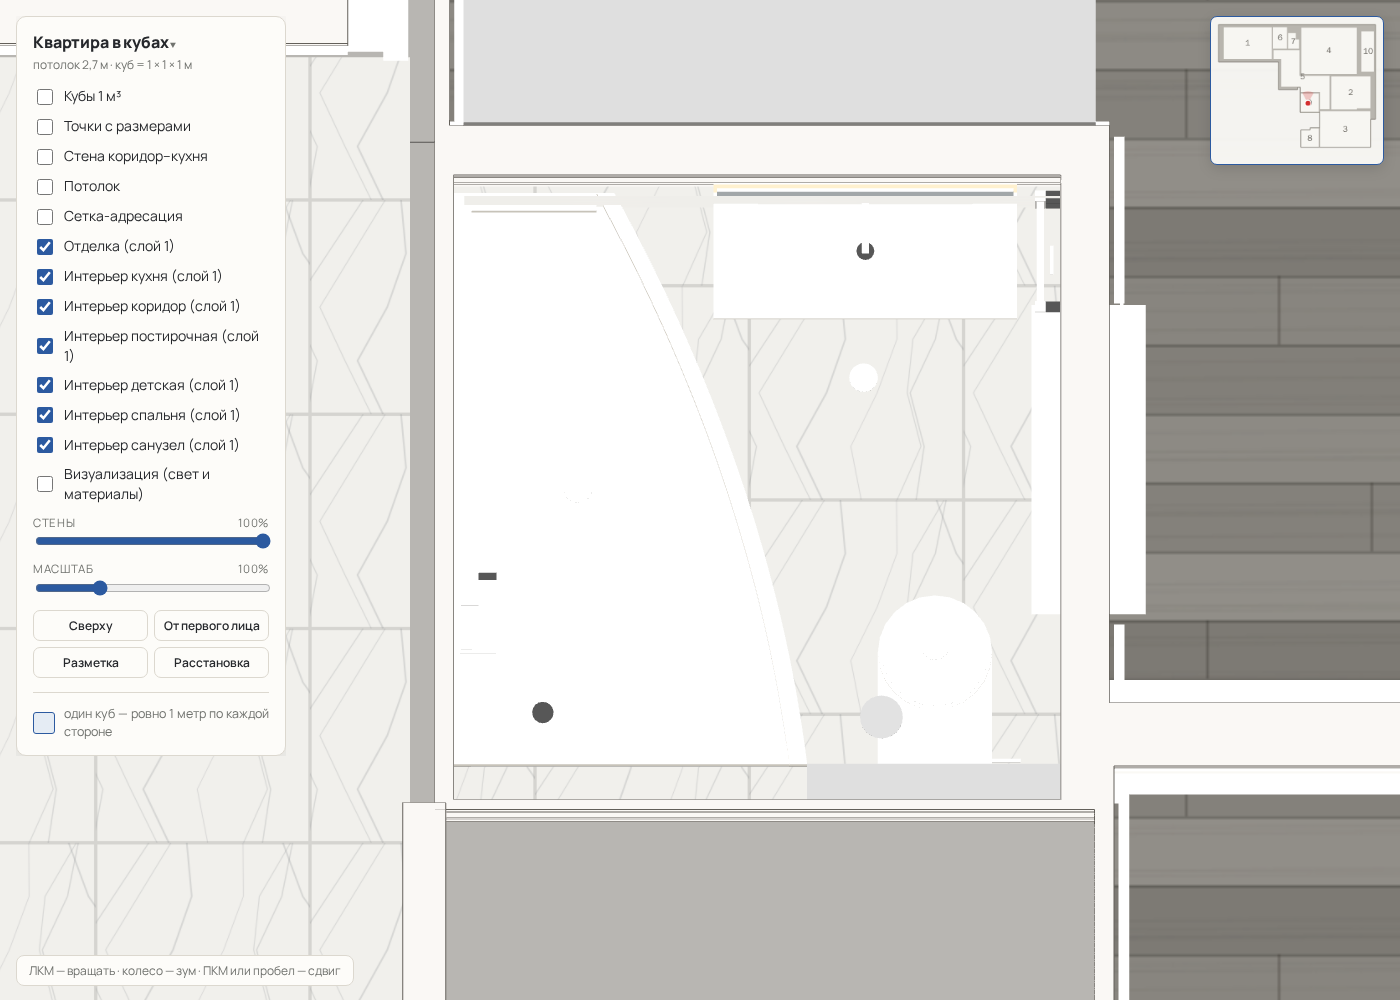
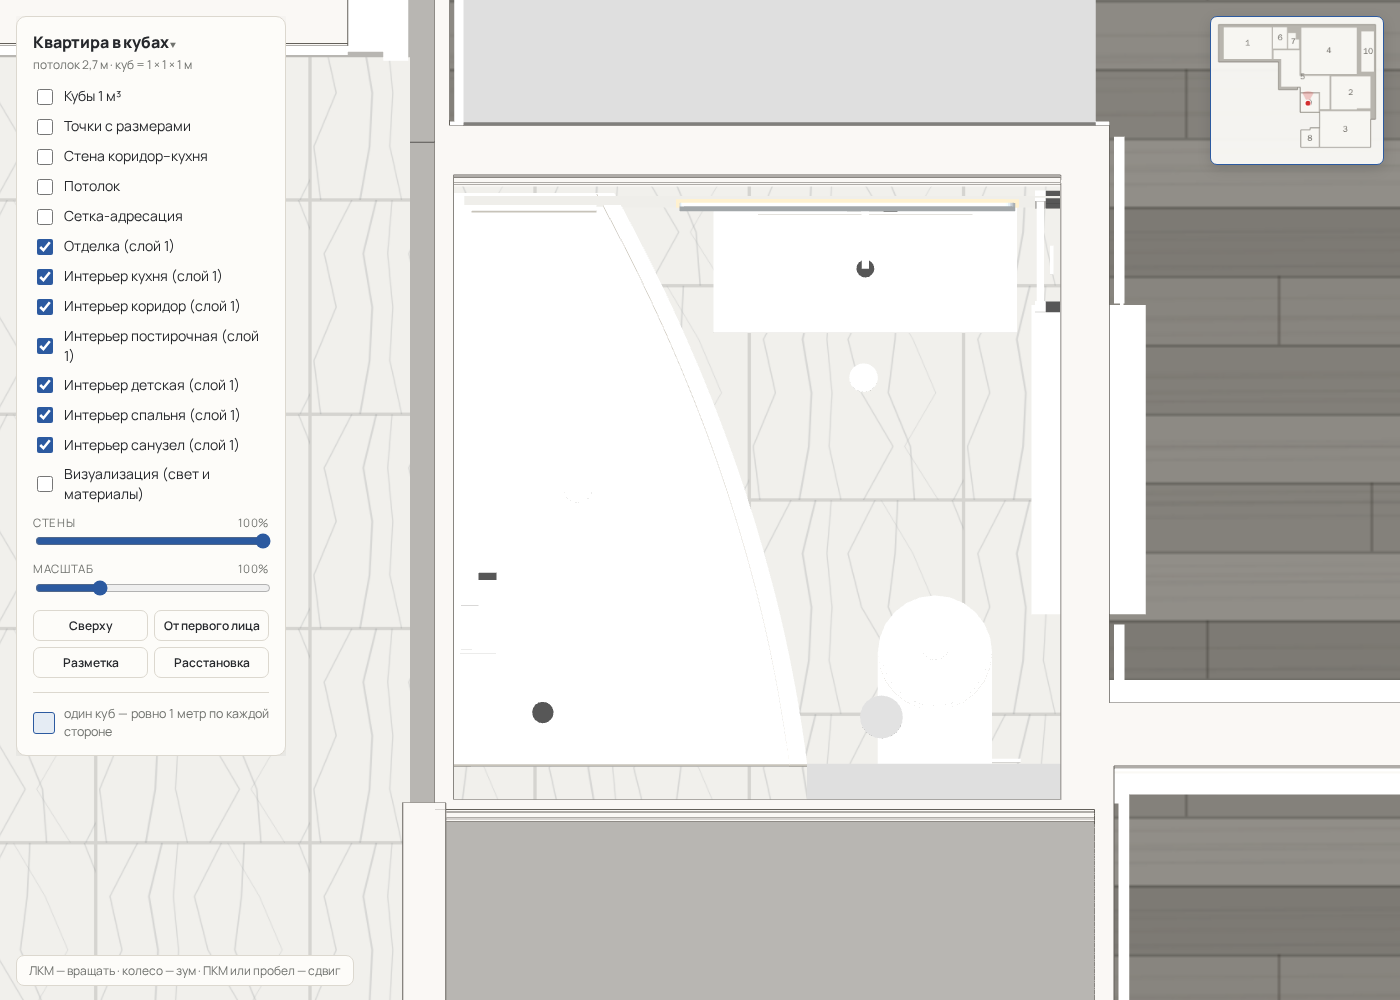
bath9: mirror and basin mixer in front of the north tile, rounded 0.96×1.20 mirror

diff --git a/items.js b/items.js
@@ -302,7 +302,7 @@ const PHYS={}; // id → boxes
     {id:'sock20',type:'розетка общего назначения (увлажнитель, пылесос)',room:3,layer:'master',pos:[10.66,13.124],rot:180,size:[0.08,0.34,0.01],fixed:'wall',build(b){ b(0,0.08,0.26,0.34,0,0.01,mat.lamp); }},
     // ---- bathroom 9 (tasks/bath9/README.md, marks M1–M18 mirrored across the door axis z 8.997; grey materials only) ----
     // Room box: x 8.172–9.872, z 8.122–9.872, door on the east wall z 8.55–9.25. Basin, mirror and towel rail on the north side,
-    // cistern box and toilet on the south. Tiles sit 0.02 in front of the walls, so wall-mounted parts start at wall+0.02.
+    // cistern box and toilet on the south. Tiles follow PLAN.baths (north face at z 8.181, west at x 8.222, others wall+0.02), so wall-mounted parts start in front of them.
     // The passage strip x 8.872–9.872 × z 8.55–9.25 stays empty except the tub, which ends it (free depth ≥ 0.80, check.js).
     {id:'tub',type:'ванна акриловая каплевидная 1.60 вдоль западной стены: северный торец 0.45, выпуклая кромка расширяется к южному торцу 0.99 у короба и унитаза',room:9,layer:'bath',pos:[8.172,8.147],rot:0,size:[0.99,0.58,1.60],fixed:'wall',
      build(b,g){
@@ -336,24 +336,28 @@ const PHYS={}; // id → boxes
        b(0.02,0.34,0.20,0.40,0.16,0.48,mat.kmat); cyl(0.16,0.20,0.30,mat.kmat);                     // bowl: box at the back, round front to z 0
        b(0.03,0.33,0.40,0.42,0.16,0.46,mat.lamp); cyl(0.15,0.02,0.41,mat.lamp);                     // seat
      }},
-    {id:'basin',type:'раковина подвесная 0.85×0.38 вдоль северной стены, чаша 0.60×0.30 глубиной 0.10',room:9,layer:'bath',pos:[8.90,8.122],rot:0,size:[0.85,0.85,0.38],fixed:'wall',
+    {id:'basin',type:'раковина подвесная 0.85×0.36 вдоль северной стены, чаша 0.60×0.30 глубиной 0.10',room:9,layer:'bath',pos:[8.90,8.181],rot:0,size:[0.85,0.85,0.36],fixed:'wall',
      build(b,g){
-       b(0,0.85,0.70,0.75,0,0.38,mat.kmat);                                                          // slab, bowl floor at 0.75
-       b(0,0.125,0.75,0.85,0,0.38,mat.kmat); b(0.725,0.85,0.75,0.85,0,0.38,mat.kmat);               // rim around the bowl 0.125–0.725 × 0.04–0.34
-       b(0.125,0.725,0.75,0.85,0,0.04,mat.kmat); b(0.125,0.725,0.75,0.85,0.34,0.38,mat.kmat);
-       const d=new THREE.Mesh(new THREE.CylinderGeometry(0.025,0.025,0.004,16),mat.handle); d.position.set(0.425,0.752,0.19); g.add(d); // drain
+       b(0,0.85,0.70,0.75,0,0.36,mat.kmat);                                                          // slab, bowl floor at 0.75
+       b(0,0.125,0.75,0.85,0,0.36,mat.kmat); b(0.725,0.85,0.75,0.85,0,0.36,mat.kmat);               // rim around the bowl 0.125–0.725 × 0.03–0.33
+       b(0.125,0.725,0.75,0.85,0,0.03,mat.kmat); b(0.125,0.725,0.75,0.85,0.33,0.36,mat.kmat);
+       const d=new THREE.Mesh(new THREE.CylinderGeometry(0.025,0.025,0.004,16),mat.handle); d.position.set(0.425,0.752,0.18); g.add(d); // drain
      }},
-    {id:'basindrawer',type:'ящик под раковиной 0.85×0.33×0.18, подвесной, push-to-open',room:9,layer:'bath',pos:[8.90,8.122],rot:0,size:[0.85,0.68,0.33],fixed:'wall',
-     build(b){ b(0,0.85,0.50,0.68,0,0.31,mat.body); b(0.005,0.845,0.505,0.675,0.31,0.33,mat.wdoor); }},            // body, front to the south
-    {id:'bathmirror',type:'зеркало 0.85×1.00 без рамы, LED-контур сзади; низ 1.10 — над корпусом смесителя',room:9,layer:'bath',pos:[8.90,8.142],rot:0,size:[0.85,2.10,0.02],fixed:'wall',
-     build(b){ b(0,0.85,1.10,2.10,0,0.01,mat.led); b(0.01,0.84,1.11,2.09,0.01,0.02,mat.glass); }},                 // light halo behind, glass in front
+    {id:'basindrawer',type:'ящик под раковиной 0.85×0.31×0.18, подвесной, push-to-open',room:9,layer:'bath',pos:[8.90,8.181],rot:0,size:[0.85,0.68,0.31],fixed:'wall',
+     build(b){ b(0,0.85,0.50,0.68,0,0.29,mat.body); b(0.005,0.845,0.505,0.675,0.29,0.31,mat.wdoor); }},            // body, front to the south
+    {id:'bathmirror',type:'зеркало 0.96×1.20 прямоугольное со скруглёнными углами, LED-контур сзади; низ 1.10 — над корпусом смесителя',room:9,layer:'bath',pos:[8.795,8.185],rot:0,size:[0.96,2.30,0.02],fixed:'wall',
+     build(b,g){
+       const rr=(w,h,r)=>{ const s=new THREE.Shape(); s.moveTo(r,0); s.lineTo(w-r,0); s.quadraticCurveTo(w,0,w,r); s.lineTo(w,h-r); s.quadraticCurveTo(w,h,w-r,h); s.lineTo(r,h); s.quadraticCurveTo(0,h,0,h-r); s.lineTo(0,r); s.quadraticCurveTo(0,0,r,0); return s; };
+       const plate=(w,h,r,x,y,z,m)=>{ const mesh=new THREE.Mesh(new THREE.ExtrudeGeometry(rr(w,h,r),{depth:0.01,bevelEnabled:false}),m); mesh.position.set(x,y,z); g.add(mesh); };
+       plate(0.96,1.20,0.07,0,1.10,0,mat.led); plate(0.94,1.18,0.06,0.01,1.11,0.01,mat.glass);      // light halo behind, glass in front (faces south)
+     }},
     {id:'towelrail',type:'полотенцесушитель электрический 0.40×1.80 на простенке севернее двери, низ 0.45',room:9,layer:'bath',pos:[9.77,8.13],rot:0,size:[0.10,2.25,0.40],fixed:'wall',
      build(b){
        [0.03,0.34].forEach(z=>b(0.03,0.06,0.45,2.25,z,z+0.03,mat.lamp));                              // two vertical collectors
        for(let y=0.55;y<2.2;y+=0.10) b(0.035,0.055,y,y+0.02,0.06,0.34,mat.lamp);                     // rungs every 0.10
        [0.55,1.10,1.60,2.15].forEach(y=>[0.03,0.34].forEach(z=>b(0.06,0.10,y,y+0.03,z,z+0.03,mat.handle))); // wall brackets
      }},
-    {id:'basinmixer',type:'смеситель раковины настенный, излив 0.18; ось чаши x 9.325',room:9,layer:'bath',pos:[9.275,8.142],rot:0,size:[0.14,1.09,0.20],fixed:'wall',
+    {id:'basinmixer',type:'смеситель раковины настенный, излив 0.18; ось чаши x 9.325',room:9,layer:'bath',pos:[9.275,8.185],rot:0,size:[0.14,1.09,0.20],fixed:'wall',
      build(b){ b(0,0.10,1.00,1.09,0,0.02,mat.lamp); b(0.04,0.06,1.035,1.055,0.02,0.18,mat.lamp); b(0.10,0.14,1.04,1.05,0,0.02,mat.handle); }}, // body, spout, lever
     // ceiling: three IP44 spots Ø0.08 and the extractor fan Ø0.12 above the cistern box
     {id:'spot1',type:'точечный светильник над ванной, IP44',room:9,layer:'bath',pos:[8.48,8.96],rot:0,size:[0.08,2.70,0.08],fixed:'wall',

diff --git a/tasks/bath9/README.md b/tasks/bath9/README.md
@@ -271,3 +271,9 @@ ID новых предметов: `tub` (M1), `tubscreen` (M2), `tubmixer` (M3),
   не глубже 0.895 (свободная глубина 0.81). Контур выпуклый, без горбов.
 - Короб инсталляции 0.71 (x 9.162–9.872) вместо 1.00 — только за унитазом, от торца ванны до стены.
 - Унитаз на 0.02 восточнее: ось x 9.52 — 0.36 от торца ванны, 0.35 до стены. Кнопка и спот по оси.
+
+## Итерация 5 (2026-09-06): зеркало вернулось
+
+Плитка северной стены стоит на z 8.181 (`baths[0].z0` + 0.02), а зеркало и смеситель раковины после отражения были на
+z 8.142–8.162 — за плиткой. Теперь оба на z 8.185; зеркало 0.96 × 1.20 прямоугольное со скруглёнными углами (r 0.07),
+низ 1.10; раковина и ящик прижаты к плитке (глубина 0.36/0.31, передняя кромка z 8.541 — до полосы 0.009).
